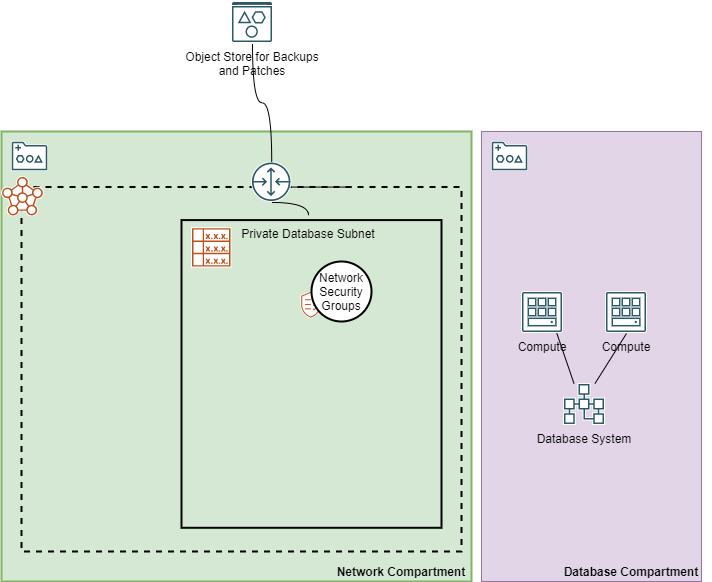
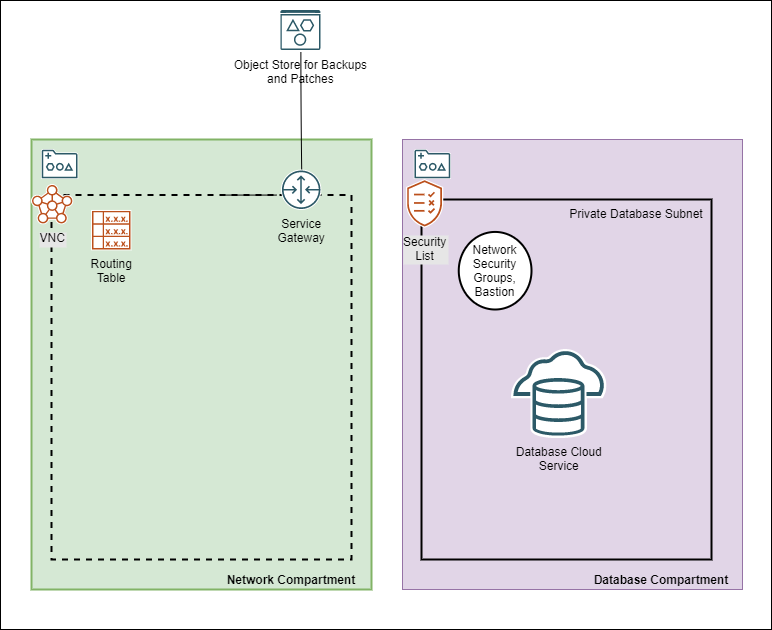
Code clean-up and documentation enhancements

Changed region(s): [[0.0, 0.0, 1.0, 1.0]]

diff --git a/dbaas/README.md b/dbaas/README.md
@@ -1,23 +1,27 @@
-# Database Infrastructure
-
-# Virtual Machine Database Systems
+# Database Cloud Service on VM
 (Source: [OCI documentation] (https://docs.oracle.com/en-us/iaas/Content/Database/Concepts/overview.htm))
 
-Oracle Infrastructure Cloud offers installation of DB system on Bare Metal, VM and Exadata which includes the hardware, storage software, and networking configuration required to run Oracle Databases in the Oracle cloud.
+Oracle Infrastructure Cloud offers installation of DB system on VM (DBCS) and Exadata (ExaCS) which includes the hardware, storage software, and networking configuration required to run Oracle Databases in the Oracle cloud.
 
-The following usecase describes how to launch an DB System on VM through an Oracle Resource Management stack.
+The following use case describes how to provision a DB System on VM through an Oracle Resource Management stack
 
-## Database as a Service on VM Stack
+
+## Database Cloud Service on VM Stack
 
 ![Database System](docs/images/database_sys_vm.png "Database System Diagram")
 
-Oracle Cloud Infrastructure provides single-node DB systems on virtual machines, and 2-node RAC DB systems on virtual machines. If you need to provision a DB system for development or testing purposes, a special  fast-provisioning single-node virtual machine system is available.
+Functional Flow:
+
+![Functional Flow](docs/images/functional_flow.png "Functional Flow Diagram")
+
+Oracle Cloud Infrastructure provides single-node DB systems on virtual machines, and 2-node RAC DB systems on virtual machines. If you need to provision a DB system for development or testing purposes, a special fast-provisioning single-node virtual machine system is available.
 
 You can manage these systems by using the Console, the API, the Oracle Cloud Infrastructure CLI, the Database CLI (DBCLI), Enterprise Manager, or SQL Developer.
 
+
 #### Supported Database Editions and Versions
 
-All single-node Oracle RAC DB systems support the following Oracle Database editions:
+DBCS supports the following Oracle Database editions:
 
 - Standard Edition
 - Enterprise Edition
@@ -43,11 +47,11 @@ For fast provisioning of single-node virtual machine database systems (using Log
 
 ## Workload Types
 
-Database as a Service on VM supports the following Workload Types:
+Database Cloud Service on VM supports the following Workload Types:
 
-**DW**: Built for decision support and data warehouse workloads. Offers fast queries over large volumes of data.
+**Dataware House (DW):** Built for decision support and data warehouse workloads. Offers fast queries over large volumes of data.
+**Online Transaction Processing (OLTP):** Built for transactional workloads. Offers high concurrency for short-running queries and transactions.
 
-**OLTP**: Built for transactional workloads. Offers high concurrency for short-running queries and transactions.
 
 ## Prerequistes
 
@@ -55,16 +59,21 @@ The [OCloud Framework] (https://github.com/oracle-devrel/terraform-oci-ocloud-la
 
 ## Default Installation
 
+### Database Sizing
+
 DBaaS on VM ORM Stack includes three standard installation scenarios and a custom mode: 
-- Small: 19c Oracle Enterprise Edition Database System, 2 OCPUs and 512 GB of Storage
-- Medium: 19c Oracle Enterprise Edition Database System, 8 OCPUs and 4 TB of of Storage
-- Large: 19c Oracle Enterprise Edition Database System, 16 OCPUs and 8 TB of of Storage
+
+|  Configuration | Database Version | Oracle Database Software Edition | Shape | OCPUs | Storage(GB) |
+|---|---|---|---|---|---|
+| Small | 19 | Oracle Enterprise Edition | VM.Standard2.2 | 2 | 512 |
+| Medium | 19 | Oracle Enterprise Edition | VM.Standard2.8 | 8 | 4096 |
+| Large | 19 | Oracle Enterprise Edition | VM.Standard2.16 | 16 | 8192 |
 
 **Note:** Deployment Type Cluster demands Oracle Enterprise Extreem Performance Edition.
 
- It is expected that a compartment <organization>_<project>_database_compartment was provisioned through a landing zone stack. Details are retrieved directly from the remote stack. Therefore a default installation doesn't allow you to select a database compartment.
+ In order to provision a DBCS stack it is required that a DB compartment was provisioned as part of a landing zone stack whose details are retrieved directly from the remote stack.
 
-In addition to setting the size of the instances to small, medium or large, Deployment Type allows you to deploy a fast provisioned instance, a basic instance or a RAC cluster:
+In addition to setting the size of the instances to small, medium or large, **Deployment Type** allows you to deploy a fast provisioned instance, a basic instance or a RAC cluster:
 
 - Fast Provisioning
     - Storage Management Software: LVM
@@ -79,51 +88,55 @@ In addition to setting the size of the instances to small, medium or large, Depl
     - Auto Backup enabled: true
     - Node Count: 2
 
-**Note:** For a quick deployment make sure that LVM is used as Storage Management Software. Where a LVM based deployment takes around 20 minutes, a ASM based installation will take about an hour.
+**Note:** Note that deployment of a Fast Provisioning instance takes around 20 minutes, a Basic 1 hour and a Cluster 2 hours. 
+
+### Deployment Steps
 
 1. Navigate to OCI Resource Manager
 1. Create a Stack
 1. Load dbaas.zip
-1. Enter mandetory parameters
-    1. **Landing Zone Stack ID:** Copy and enter the landing zone's OCID
-    1. **Organization:** Used as part of a service label to identify landing zone resources
-    1. **Project:** Used as part of a service label to identify landing zone resources
-    1. **DB System Name:** User provided non-unique database system name
-    1. **Container Database Name:**  It must begin with an alphabetic character and can contain a maximum of eight alphanumeric characters. Special characters are not permitted. The unique database name is the DB name plus a random string. Accept the default if you don't have any other preferences.
-    1. **User-provided name of Database Home:** Accept the default if you don't have any other preferences
-    1. **Pluggable Database Name:** The name must begin with an alphabetic character and can contain a maximum of thirty alphanumeric characters. Special characters are not permitted. Pluggable database should not be same as database name
-    1. **DBaaS on VM Standard Configurations:** Select Small, Medium or Large configuration
-    1. **Deployment Type:** select Fast Provisioning, Basic, Cluster
-    1. **Public key for SSH access to the DB system:** Provide public part of a ssh key
-    1. **Admin Password:** Admin password for SYS, SYSTEM, PDB Admin and TDE Wallet
-    1. **Use existing DB subnet?:** Deploy the DBCS instance into an existing subnet. This option will skip the creation of a database 
-subnet.
+1. Enter mandetory parameters:
 
-**Note:** In case default installation templates for Configuration and Deployment Type do not fit your needs choose a custom configuration which allow you to fully customize your own DBaaS on VM Stack.
+|  Parameter |  Default Value |
+|---|---|
+| Landing Zone Stack ID | Copy and enter the landing zone's OCID |
+| Organization | Used as part of a service label to identify landing zone resources |
+| Project | Used as part of a service label to identify landing zone resources |
+| DB System Name | User provided non-unique database system name |
+| Container Database Name | It must begin with an alphabetic character and can contain a maximum of eight alphanumeric characters. Special characters are not permitted. The unique database name is the DB name plus a random string. Accept the default if you don't have any other preferences |
+| User-provided name of Database Home | Accept the default if you don't have any other preferences |
+| Pluggable Database Name | The name must begin with an alphabetic character and can contain a maximum of thirty alphanumeric characters. Special characters are not permitted. Pluggable database should not be same as database name |
+| DBaaS on VM Standard Configuration | Select Small, Medium or Large configuration |
+| Deployment Type | Select Fast Provisioning, Basic, Cluster |
+| Public key for SSH access to the DB system | Provide public part of a ssh key |
+| Admin Password | Admin password for SYS, SYSTEM, PDB Admin and TDE Wallet |
+| Use existing DB subnet? | Deploy the DBCS instance into an existing subnet. This option will skip the creation of a database 
+subnet |
 
-**Default Parameter**
+**Note:** If the default installation templates for **Configuration** and **Deployment Type** do not fit your needs choose a custom configuration which allow you to fully customize your own DBCS on VM Stack.
+
+**Default Parameter Values**
 
 **Note:** <service label> combines the first characters of the  <organization> with the first 5 characters of the <project> label.
 
-- **Database Compartment:** <service label>_database_compartment
-- **Availability Domain:** AD-1
-- **Node Count:** 1
-- **Cluster Name:** <service>rac if Node Count = 2 and Cluster Name is not set
-- **Oracle Database Software Edition:** ORACLE_STANDARD
-- **Storage Management Software:** ASM
-- **License Type:** LICENSE_INCLUDED
-- **Network Compartment:** <service label>_network_compartment
-- **Database Client VCN:** <service label>_1_vcn
-- **Database Client Subnet:** <service label>_db_client_subnet
-- **Security List:** <service label>_db_client_security_list
-- **Hostname Prefix:** oracledb<project>
-- **Fault Domain:** FAULT-DOMAIN-1
-- **Timezone:** UTC
-- **Database Version:** 19.0.0.0 (Corresponds to the latest 19c version)
-- **Workload Type:** OLTP
-- **Automatic Backups:** Disabled
-- **Character Set:** AL32UTF8
-- **National Character Set:** AL16UTF16
+|  Parameter |  Default Value |
+|---|---|
+| Database Compartment  | [service label]_database_compartment |
+| Availability Domain | AD-1 |
+| Node Count  | 1 |
+| Cluster Name | [service]rac if Node Count = 2 and Cluster Name is not set |
+| Oracle Database Software Edition | ORACLE_STANDARD |
+| Storage Management Software | ASM |
+| License Type | LICENSE_INCLUDED |
+| Hostname Prefix | oracledb[project] |
+| Fault Domain | FAULT-DOMAIN-1 |
+| Timezone | UTC |
+| Database Version | 19.0.0.0 (Corresponds to the latest 19c version) |
+| Workload Type | OLTP |
+| Automatic Backups | Disabled |
+| Character Set | AL32UTF8 |
+| National Character Set | AL16UTF16 |
+
 
 ## Parameter Reference
 
@@ -262,7 +275,7 @@ Connection strings to connect to the database's administration service. For Orac
 | Easy Connect | cdbDefault | oracledb.db.lndzntst0vcfra.oraclevcn.com:1521/cdb01_fra1nv.db.lndzntst0vcfra.oraclevcn.com |
 | Long | cdbIpDefault | (DESCRIPTION=(CONNECT_TIMEOUT=5)(TRANSPORT_CONNECT_TIMEOUT=3)(RETRY_COUNT=3)(ADDRESS_LIST=(LOAD_BALANCE=on)(ADDRESS=(PROTOCOL=TCP)(HOST=10.0.2.161)(PORT=1521)))(CONNECT_DATA=(SERVICE_NAME=cdb01_fra1nv.db.lndzntst0vcfra.oraclevcn.com))) |
 
-**Note:** The Stack output does not display the pdb access strings however in the table below you can find examples:
+**Note:** The stack output does not display the pdb access strings however in the table below you can find examples:
 
 |Format | Output Name | Connection String Example |
 | ---  | ---     | --- |
@@ -271,7 +284,72 @@ Connection strings to connect to the database's administration service. For Orac
 
 ## Validate 
 
-1. Use sqlplus or sqlcl to connect to CDB or PDB via Bastion Service which was deployed as part of the Landing Zone. Check the output for the appropriate connect string.
+Use sqlplus, sqlcl or sqldeveloper to connect to CDB or PDB via Bastion Service which was deployed as part of the Landing Zone. Check the output for the appropriate connect string.
+
+Bastion Session:
+
+| Protocol | Session type | IP Address | Port | Maximum session time-to-live (min) | |
+|---|---|---|---|---|---|
+| ssh | SSH Port Forwarding Session | Host IP | 22 | 1800 | ssh access to database node(s) |
+| sqlnet | SSH Port Forwarding Session | Host IP | 1521 | 1800 | sqlplus, sqlcl or sqldeveloper |
+| em | SSH Port Forwarding Session | Host IP | 5500 | 1800 | Oracle Enterprise Manager Database Express |
+
+**SSH:**
+
+Once you created an Bastion ssh session, copy the SSH command from the console to create an SSH tunnel.
+
+```
+ssh -i [private key file] -N -L <local port>:10.0.0.147:22 -p 22 [bastion session OCID]@host.bastion.eu-frankfurt-1.oci.oraclecloud.com
+```
+
+To ssh to the DB Node use the following command:
+
+```
+ssh -i [private key file] localhost -p opc@<local port>
+```
+
+***sqldeveloper:***
+
+Once you created an Bastion sql session, copy the SSH command from the console to create an SSH tunnel.
+
+```
+ssh -i [private key file] -N -L [local port]:10.0.0.147:1521 -p 22 [bastion session OCID]@host.bastion.eu-frankfurt-1.oci.oraclecloud.com
+```
+
+Open sqldeveloper and create a new database connection:
+
+| Parameter | Value |
+|---|---|
+| Username | sys |
+| Password | admin password |
+| Role | SYSDBA |
+| Connection Type | Basic |
+| Hostname | localhost |
+| Port | [local sql port] |
+| Service Name | SERVICE_NAME from DBCS output |
+
+**Oracle Enterprise Manager Database Express (19c):**
+
+ssh to db node and open port 5500 in the host firewall.
+
+```
+sudo su iptables -I INPUT -p tcp -m tcp --dport 5500 -j ACCEPT
+suod service iptables save
+sudo service iptables reload
+sudo iptables -L -n|grep 5500
+
+```
+
+Once you created an Bastion em session, copy the SSH command from the console to create an SSH tunnel.
+
+```
+ssh -i [private key file] -N -L [local port]:10.0.0.147:5500 -p 22 [bastion session OCID]@host.bastion.eu-frankfurt-1.oci.oraclecloud.com
+```
+
+Open a web browser and navigate to https://localhost:[local port]/em .
+
+For addition information to connect to other Database versions, check https://docs.oracle.com/en-us/iaas/Content/Database/Tasks/monitoringDB.htm
+
 
 ## Terraform Code
 
